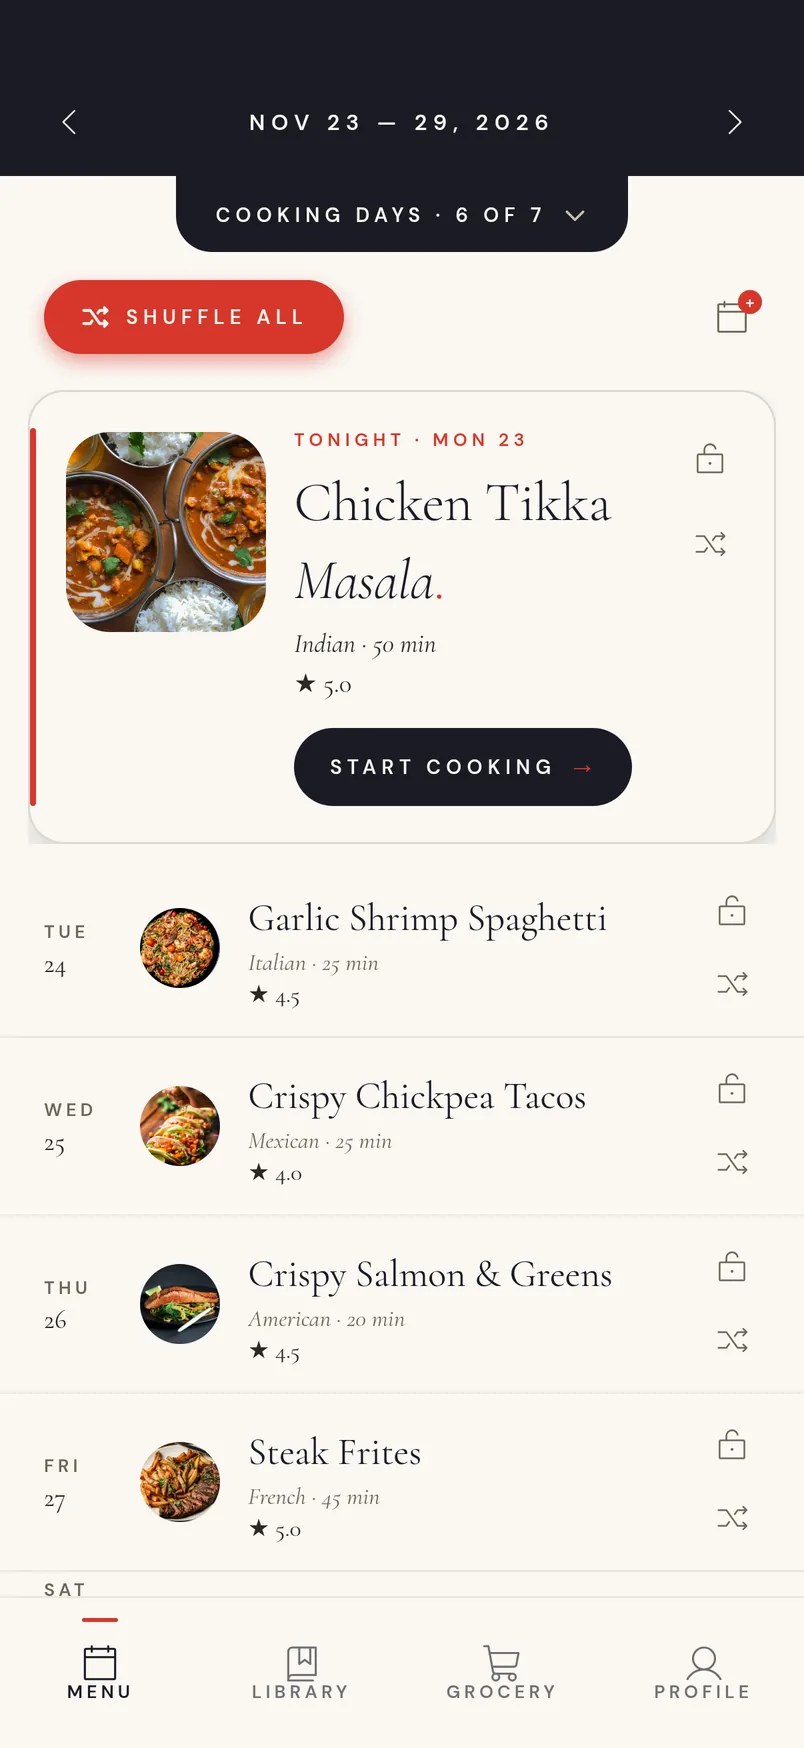
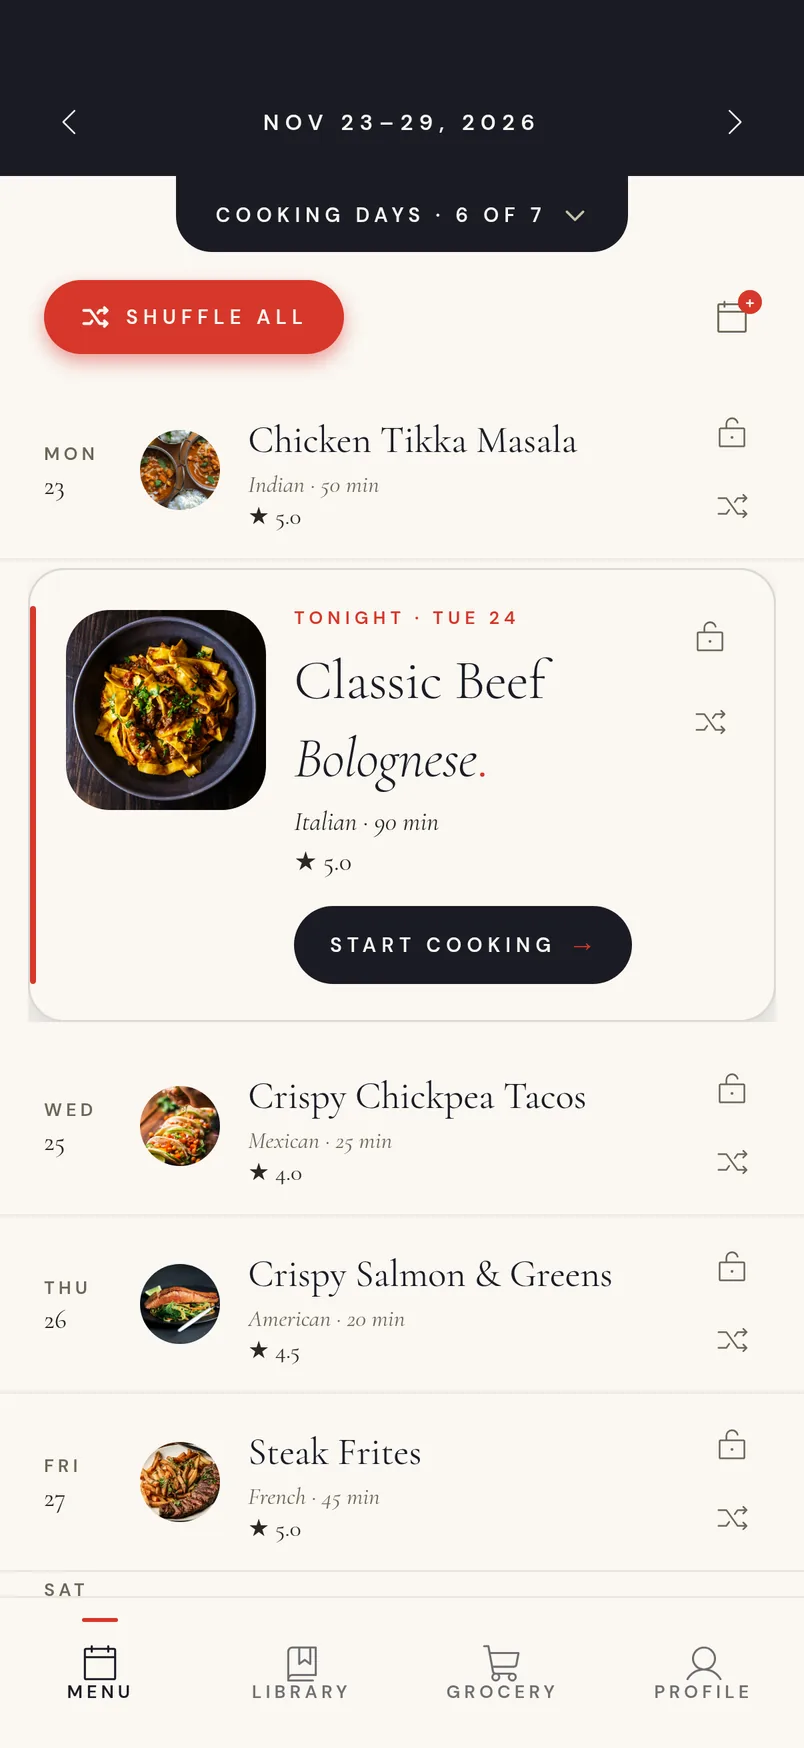
Promo page: fresh screenshots from the polished app copy, Bolognese in Cook Mode, cut allergy line
- Retake all screenshots from fix/app-copy-polish (no em dashes, no 'real time', no 'any recipe site')
- Cook Mode, Menu tonight and recipe now show Classic Beef Bolognese; og.png regenerated
- 'What everyone eats.' no longer mentions allergies

diff --git a/index.html b/index.html
@@ -466,13 +466,13 @@
             <figure class="front">
               <div class="phone"><div class="screen">
                 <img src="assets/screens/menu.webp" width="804" height="1748" fetchpriority="high"
-                     alt="A week of dinners, starting tonight with Chicken Tikka Masala." />
+                     alt="A week of dinners, with Classic Beef Bolognese tonight." />
               </div></div>
             </figure>
             <figure class="back">
               <div class="phone"><div class="screen">
                 <img src="assets/screens/recipe.webp" width="804" height="1748"
-                     alt="A Chicken Tikka Masala recipe with ratings and a note to double the sauce." />
+                     alt="A Classic Beef Bolognese recipe with ratings and a note that a double batch freezes well." />
               </div></div>
             </figure>
           </div>
@@ -597,7 +597,7 @@
             <figure>
               <div class="phone"><div class="screen">
                 <img src="assets/screens/cook.webp" width="804" height="1748" loading="lazy" decoding="async"
-                     alt="The first step of Chicken Tikka Masala, with a note and the ingredients for that step." />
+                     alt="The first step of Classic Beef Bolognese, with a note and the ingredients for that step." />
               </div></div>
             </figure>
           </div>
@@ -615,7 +615,7 @@
           <h2 class="title" id="table-title">Who sits at <em>your table.</em></h2>
           <p class="body">Dinner is rarely one person&rsquo;s problem. Bring everyone to the table, from the ones who cook to the ones who just eat.</p>
           <ul class="points">
-            <li><span><strong>What everyone eats.</strong>Who&rsquo;s allergic. Who won&rsquo;t touch mushrooms. Written down, so it&rsquo;s not all in your head.</span></li>
+            <li><span><strong>What everyone eats.</strong>Who won&rsquo;t touch mushrooms. Written down, so it&rsquo;s not all in your head.</span></li>
             <li><span><strong>One plan, one list.</strong>Changes show up for everyone right away, so nobody plans dinner twice or buys milk twice.</span></li>
           </ul>
         </div>
